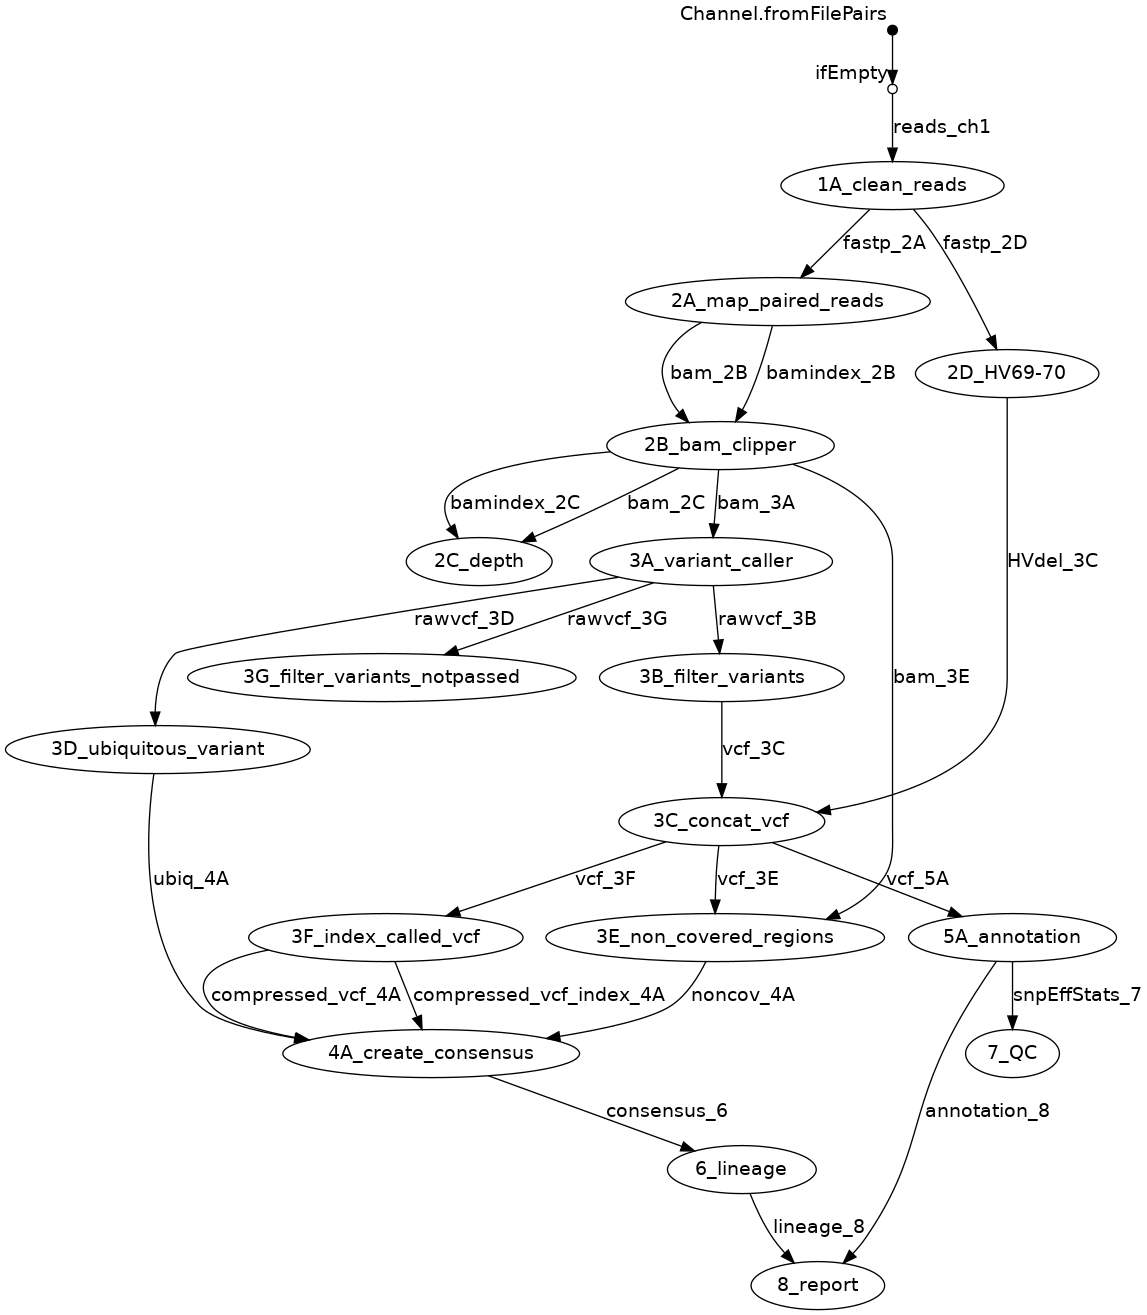
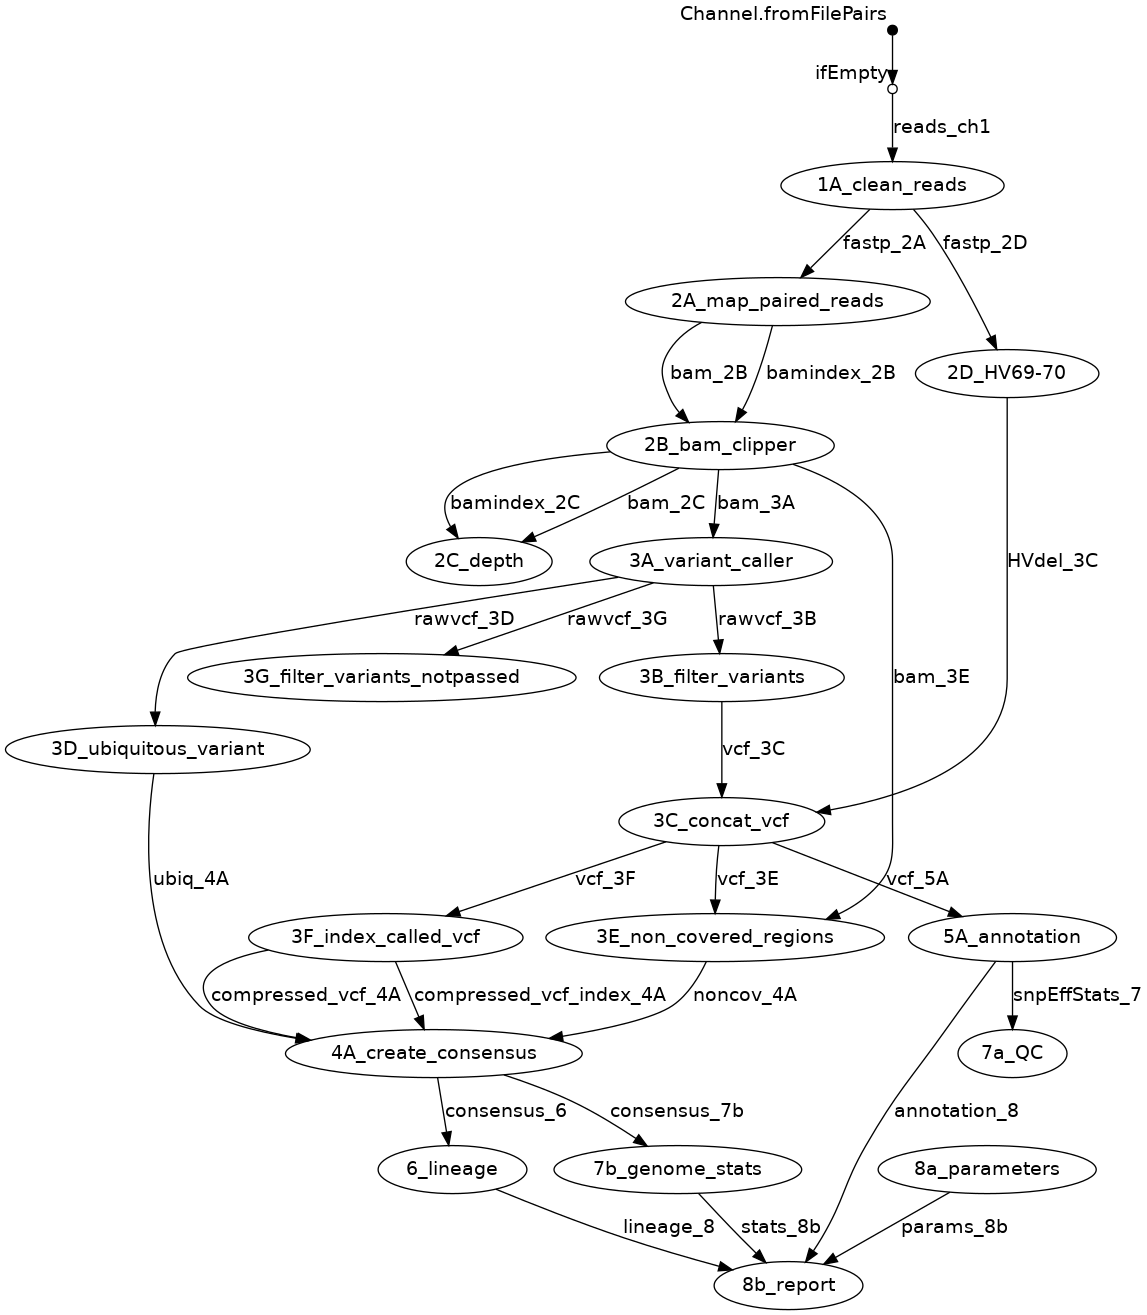
Version 5.2
- changed thresholds of max_ambig to match 90% genome completeness/coverage
	- added date to report in format YmdHMS
	- updated the flowchart

diff --git a/scripts/report/final_report_template.html b/scripts/report/final_report_template.html
@@ -11,6 +11,7 @@
 
     <h4>Pipeline version: {{version}}</h4>
     <h1>{{sampleName}}</h1>
+    <h3>Date: {{date}}</h3>
 
     <h2>Lineage</h2>
     {{lineage}}

diff --git a/scripts/final_report.py b/scripts/final_report.py
@@ -2,7 +2,7 @@
 
 ######
 INFO = "Convert results to PDF report"
-__version__ = "0.5.1"
+__version__ = "0.5.2"
 ######
 
 """
@@ -15,6 +15,7 @@ Description:    Convert results to PDF report
 import os
 import argparse
 import pandas as pd
+import datetime
 
 def parse_args():
     """
@@ -73,6 +74,9 @@ def fill_html(args):
     logo = os.path.join(localdir, "report/logo.png")
     logo = logo.replace(' ','%20')
 
+    # date
+    date = datetime.datetime.now().strftime('%Y%m%d%H%M%S')
+
     # load parameters.txt file
     params_df = pd.read_csv(args.params, sep='\t')
 
@@ -96,10 +100,13 @@ def fill_html(args):
     except KeyError:
         variant_stats_df = pd.DataFrame({'NA': []})
 
+    # for now remove the added Shorthand column
+    variant_stats_df = variant_stats_df.drop('Shorthand', 1)
+
     # filter only annotation for better overview
     try:
         annotation_df = variant_stats_df[['Position','Var Type','Read Depth Call',
-                                          'ALT freq','HGVS','Shorthand']]
+                                          'ALT freq','HGVS']]
     except KeyError:
         annotation_df = pd.DataFrame({'NA': []})
 
@@ -111,6 +118,7 @@ def fill_html(args):
 
         # general info
         "sampleName": args.sampleName,
+        "date": date,
 
         # lineage
         "lineage": lineage_df.to_html(index=False, header=True),

diff --git a/README.md b/README.md
@@ -1,5 +1,5 @@
 # EasySeq RC-PCR SARS-CoV-2/COVID-19
-# Variant pipeline V0.5.1
+# Variant pipeline V0.5.2
 
 ## Table of contents
 * [GENERAL-INFO](#GENERAL-INFO)
